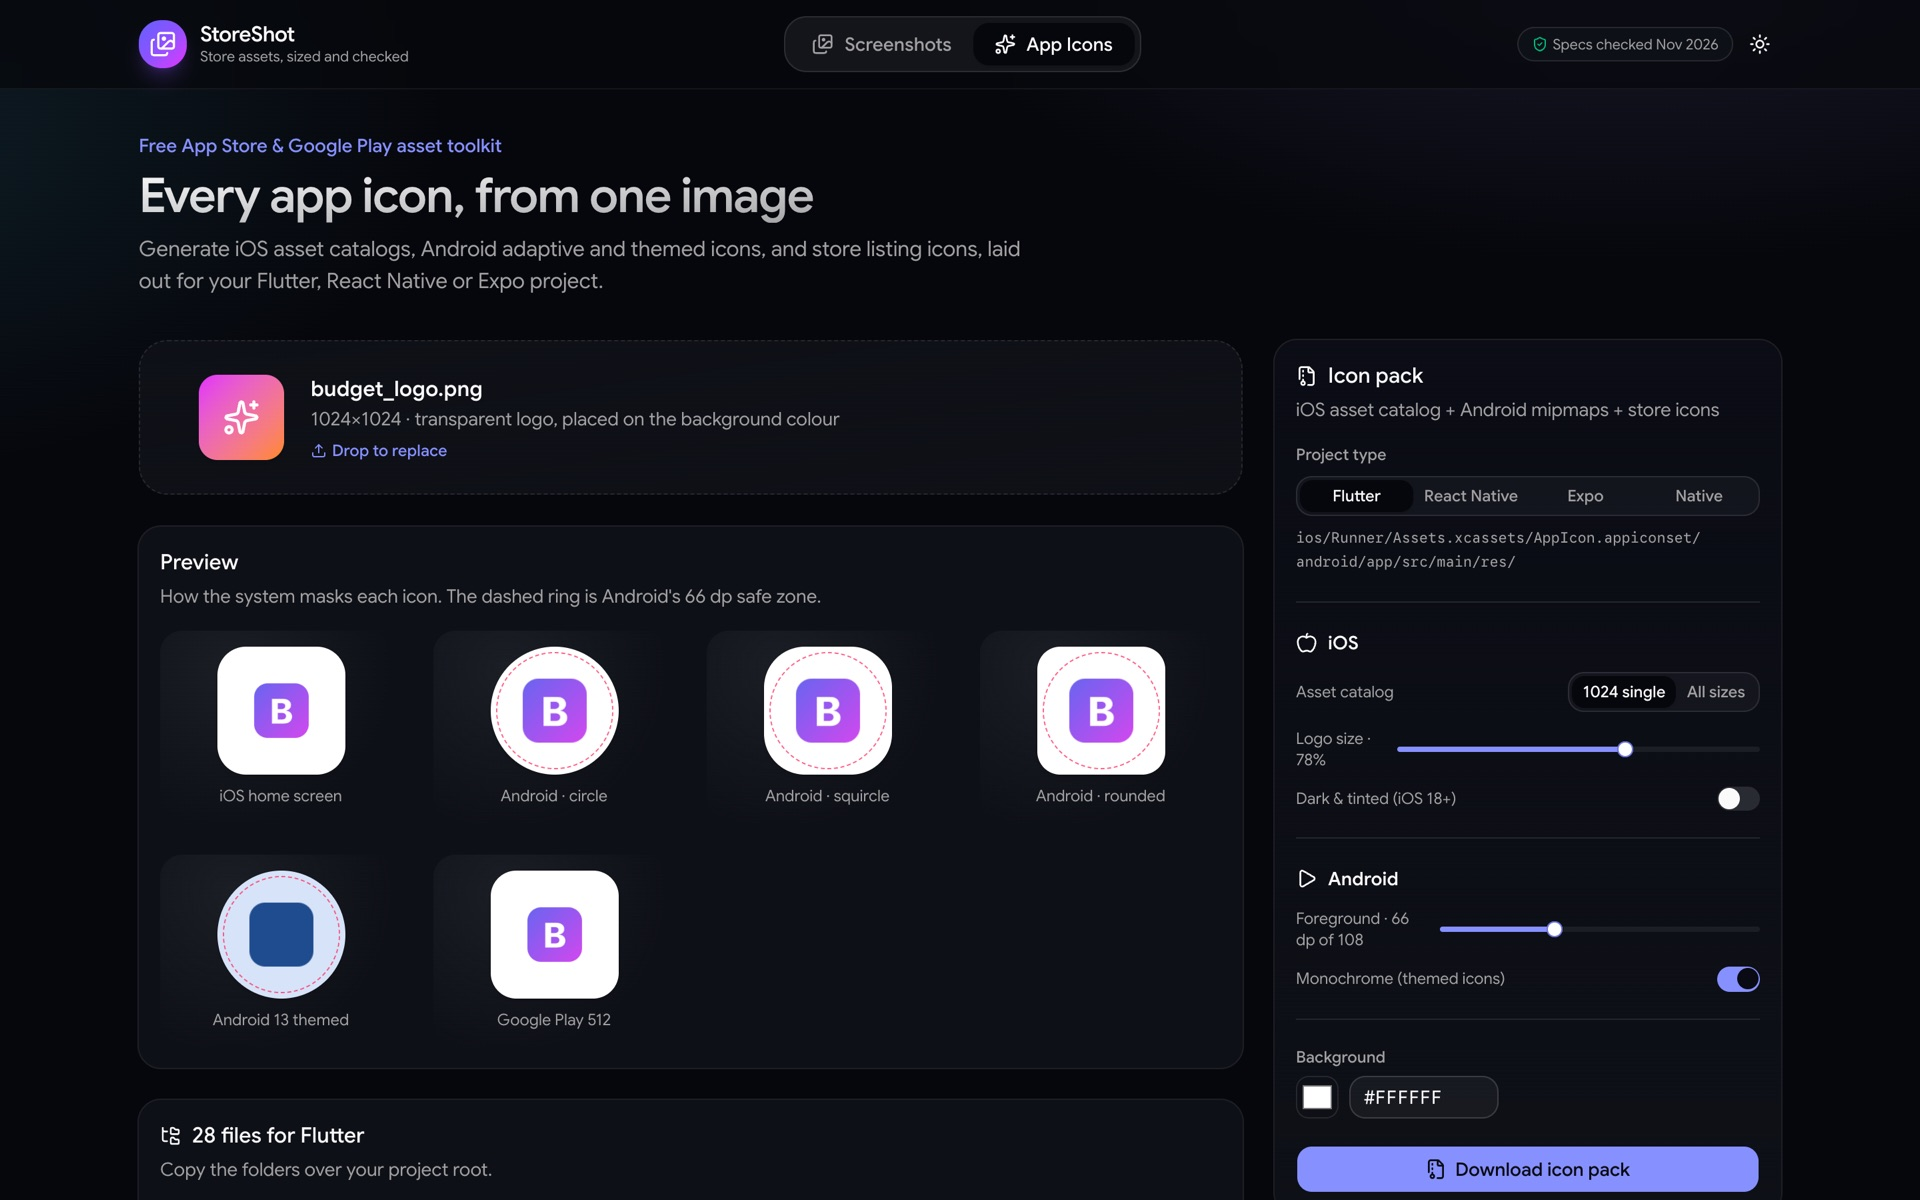
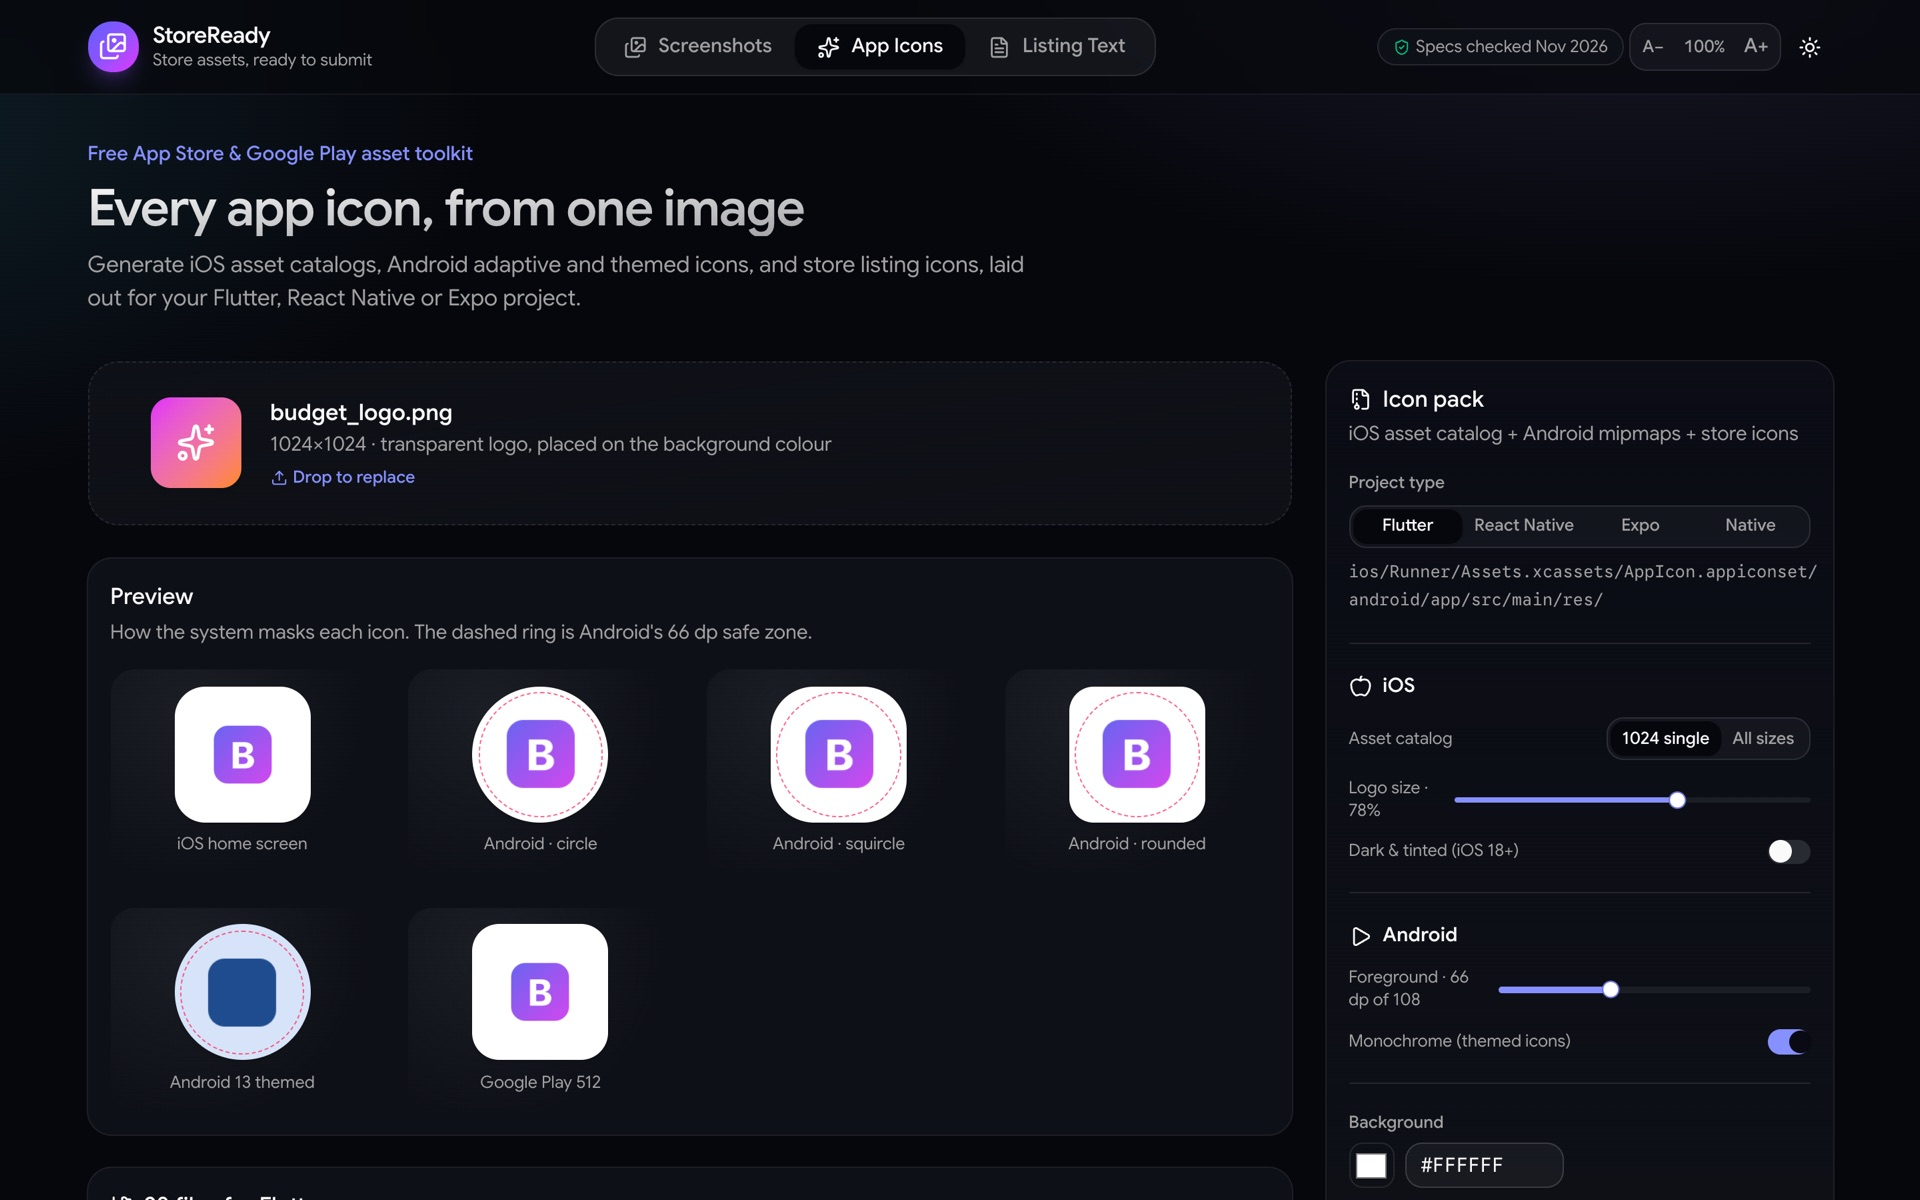
Rename to StoreReady
- Brand, page title, share image, README and generated file headers now say StoreReady
- Site URL and base path move to /storeready (repo renamed to aravi365/storeready)
- Browser storage keys are unchanged, so saved drafts and text size carry over
- README screenshots retaken

diff --git a/components/SeoGuide.tsx b/components/SeoGuide.tsx
@@ -8,15 +8,15 @@ import { PRESETS } from "@/utils/presets";
 export const FAQ: { q: string; a: string }[] = [
   {
     q: "What screenshot size does the App Store require in 2026?",
-    a: "App Store Connect requires at least one screenshot for the medium Dynamic Island iPhone display: 1206×2622 or 1179×2556 px (6.3-inch, portrait, or the landscape equivalents). Most apps also upload the large display at 1320×2868 px (6.9-inch; 1290×2796 and 1260×2736 are accepted there too). If your app runs on iPad, add 13-inch iPad screenshots at 2064×2752 or 2048×2732 px. StoreShot exports the 6.3-inch, 6.9-inch and 13-inch sets by default.",
+    a: "App Store Connect requires at least one screenshot for the medium Dynamic Island iPhone display: 1206×2622 or 1179×2556 px (6.3-inch, portrait, or the landscape equivalents). Most apps also upload the large display at 1320×2868 px (6.9-inch; 1290×2796 and 1260×2736 are accepted there too). If your app runs on iPad, add 13-inch iPad screenshots at 2064×2752 or 2048×2732 px. StoreReady exports the 6.3-inch, 6.9-inch and 13-inch sets by default.",
   },
   {
     q: "What screenshot sizes does iPhone Duo (the foldable iPhone) need?",
-    a: "iPhone Duo has two displays, and App Store Connect takes a set for each: the outer (folded) display at 1398×2034 px and the inner (unfolded) display at 2007×2853 px, in portrait or landscape. Uploading them adds an \u201coptimized for iPhone Duo\u201d badge to your product page, and they become required from April 2027 for apps built with the iOS 27.1 SDK or later. Drop images into StoreShot\u2019s iPhone Duo set to get both sizes.",
+    a: "iPhone Duo has two displays, and App Store Connect takes a set for each: the outer (folded) display at 1398×2034 px and the inner (unfolded) display at 2007×2853 px, in portrait or landscape. Uploading them adds an \u201coptimized for iPhone Duo\u201d badge to your product page, and they become required from April 2027 for apps built with the iOS 27.1 SDK or later. Drop images into StoreReady\u2019s iPhone Duo set to get both sizes.",
   },
   {
     q: "Why does App Store Connect reject my PNG screenshots?",
-    a: "The most common reasons are a wrong pixel size or an alpha channel. Apple rejects images that contain transparency or an alpha channel, even if every pixel is opaque. Browsers and many design tools save RGBA PNGs by default. StoreShot flattens every image onto a solid background and writes a true 24-bit RGB PNG.",
+    a: "The most common reasons are a wrong pixel size or an alpha channel. Apple rejects images that contain transparency or an alpha channel, even if every pixel is opaque. Browsers and many design tools save RGBA PNGs by default. StoreReady flattens every image onto a solid background and writes a true 24-bit RGB PNG.",
   },
   {
     q: "What are the Google Play screenshot requirements?",
@@ -28,7 +28,7 @@ export const FAQ: { q: string; a: string }[] = [
   },
   {
     q: "Can I mention Android or Google Play in my App Store description?",
-    a: "No. App Review Guideline 2.3.10 says not to include names, icons or imagery of other mobile platforms or alternative app marketplaces in your app or metadata. StoreShot\u2019s Listing Text tab flags these and can remove the sentences for you.",
+    a: "No. App Review Guideline 2.3.10 says not to include names, icons or imagery of other mobile platforms or alternative app marketplaces in your app or metadata. StoreReady\u2019s Listing Text tab flags these and can remove the sentences for you.",
   },
   {
     q: "Are emoji allowed in App Store and Google Play listings?",
@@ -40,7 +40,7 @@ export const FAQ: { q: string; a: string }[] = [
   },
   {
     q: "Are my images uploaded to a server?",
-    a: "No. StoreShot runs entirely in your browser using the Canvas API and Web Workers. Your screenshots and icons never leave your device.",
+    a: "No. StoreReady runs entirely in your browser using the Canvas API and Web Workers. Your screenshots and icons never leave your device.",
   },
   {
     q: "Can it generate app icons for Flutter and React Native?",
@@ -69,7 +69,7 @@ export function SeoGuide() {
           App Store &amp; Google Play screenshot sizes (2026 guide)
         </h2>
         <p className="mt-2 max-w-3xl text-muted-foreground">
-          The exact sizes StoreShot exports, checked against Apple&apos;s App Store Connect and Google&apos;s Play
+          The exact sizes StoreReady exports, checked against Apple&apos;s App Store Connect and Google&apos;s Play
           Console help pages in November 2026. Drop your images above and every size below is generated for you.
         </p>
 
@@ -93,7 +93,7 @@ export function SeoGuide() {
             <h3 className="text-lg font-semibold">How to resize screenshots for the App Store and Play Store</h3>
             <ol className="mt-3 list-decimal space-y-2 pl-5 text-sm text-muted-foreground">
               <li>Drop your phone screenshots into the Mobile set, iPad screenshots into the iPad / Tablet set and foldable screenshots into the iPhone Duo set, or drop whole folders (for example en-US/iphone and ja/ipad) into Smart folder import.</li>
-              <li>StoreShot detects each device from its resolution and the language from folder and file names (any of the 50 App Store languages, e.g. ja/, de-DE, home_fr.png).</li>
+              <li>StoreReady detects each device from its resolution and the language from folder and file names (any of the 50 App Store languages, e.g. ja/, de-DE, home_fr.png).</li>
               <li>Choose Fit, Fill (smart crop) or Stretch. Fit keeps the whole image: if the shapes differ by under 1% it fills the frame with an even hairline trim, otherwise it adds background only where needed. Transparency is flattened automatically.</li>
               <li>Check the compliance badge on each preview, then download one ZIP sorted by store, language and device.</li>
             </ol>
@@ -119,7 +119,7 @@ export function SeoGuide() {
         <p>All processing happens in your browser. Nothing is uploaded.</p>
         <p>
           Open source on{" "}
-          <a className="underline hover:text-foreground" href="https://github.com/aravi365/storeshot">
+          <a className="underline hover:text-foreground" href="https://github.com/aravi365/storeready">
             GitHub
           </a>
           . Not affiliated with Apple or Google.

diff --git a/components/AppShell.tsx b/components/AppShell.tsx
@@ -18,7 +18,7 @@ const TABS: { id: Tab; label: string; icon: React.ReactNode; title: string; intr
     icon: <Images className="size-4" />,
     title: "Upload-ready screenshots in one drop",
     intro:
-      "Drop your mobile and iPad sets. StoreShot detects each image, scales it to every App Store and Google Play size, flattens any transparency, and checks each file against the store rules.",
+      "Drop your mobile and iPad sets. StoreReady detects each image, scales it to every App Store and Google Play size, flattens any transparency, and checks each file against the store rules.",
   },
   {
     id: "icons",
@@ -33,7 +33,7 @@ const TABS: { id: Tab; label: string; icon: React.ReactNode; title: string; intr
     icon: <FileText className="size-4" />,
     title: "Listing text that passes review",
     intro:
-      "Paste your app name, descriptions and keywords. StoreShot checks them against Apple's App Review Guidelines and Google Play's metadata policy, explains each problem, and fixes what it safely can.",
+      "Paste your app name, descriptions and keywords. StoreReady checks them against Apple's App Review Guidelines and Google Play's metadata policy, explains each problem, and fixes what it safely can.",
   },
 ];
 
@@ -49,8 +49,8 @@ export function AppShell() {
               <Images className="size-5" />
             </div>
             <div className="hidden leading-tight sm:block">
-              <p className="font-semibold tracking-tight">StoreShot</p>
-              <p className="text-xs text-muted-foreground">Store assets, sized and checked</p>
+              <p className="font-semibold tracking-tight">StoreReady</p>
+              <p className="text-xs text-muted-foreground">Store assets, ready to submit</p>
             </div>
           </div>
 

diff --git a/lib/site.ts b/lib/site.ts
@@ -1,8 +1,8 @@
 /** Public site URL, used for canonical links, the sitemap and social cards. */
-export const SITE_URL = (process.env.NEXT_PUBLIC_SITE_URL ?? "https://aravi365.github.io/storeshot").replace(/\/$/, "");
+export const SITE_URL = (process.env.NEXT_PUBLIC_SITE_URL ?? "https://aravi365.github.io/storeready").replace(/\/$/, "");
 export const BASE_PATH = process.env.NEXT_PUBLIC_BASE_PATH ?? "";
-export const SITE_NAME = "StoreShot";
-export const SITE_TITLE = "App Store & Google Play Screenshot Resizer + App Icon Generator";
+export const SITE_NAME = "StoreReady";
+export const SITE_TITLE = "App Store Screenshot Resizer, Icon Generator & Listing Checker";
 export const SITE_DESCRIPTION =
   "Free, private, in-browser tool to resize App Store and Google Play screenshots to every required size (iPhone 6.9\" and 6.3\", iPhone Duo foldable, iPad 13\", Play phone, tablet, feature graphic), strip alpha, and generate iOS + Android app icons for Flutter, React Native and Expo.";
 export const KEYWORDS = [

diff --git a/utils/listingExport.ts b/utils/listingExport.ts
@@ -31,7 +31,7 @@ export async function buildFastlaneZip(drafts: Record<Locale, Listing>): Promise
   for (const f of files) zip.file(f.path, f.text);
   zip.file(
     "README.md",
-    `# Store listing text\n\nGenerated by StoreShot. Copy the \`fastlane\` folder into your project (for Flutter, into \`ios/\` and \`android/\`, or the repo root, wherever your Fastfile lives).\n\n- iOS: \`fastlane deliver\` reads \`fastlane/metadata/<locale>/\`\n- Android: \`fastlane supply\` reads \`fastlane/metadata/android/<locale>/\`\n`,
+    `# Store listing text\n\nGenerated by StoreReady. Copy the \`fastlane\` folder into your project (for Flutter, into \`ios/\` and \`android/\`, or the repo root, wherever your Fastfile lives).\n\n- iOS: \`fastlane deliver\` reads \`fastlane/metadata/<locale>/\`\n- Android: \`fastlane supply\` reads \`fastlane/metadata/android/<locale>/\`\n`,
   );
   return zip.generateAsync({ type: "blob" });
 }

diff --git a/next.config.ts b/next.config.ts
@@ -1,7 +1,7 @@
 import type { NextConfig } from "next";
 
 // GitHub Pages serves project sites from /<repo>/, so the build is told its subfolder.
-// The Pages workflow sets NEXT_PUBLIC_BASE_PATH=/storeshot; local dev leaves it empty.
+// The Pages workflow sets NEXT_PUBLIC_BASE_PATH=/storeready; local dev leaves it empty.
 const basePath = process.env.NEXT_PUBLIC_BASE_PATH ?? "";
 
 const nextConfig: NextConfig = {

diff --git a/utils/iconGenerator.ts b/utils/iconGenerator.ts
@@ -299,7 +299,7 @@ function readme(s: IconSettings): string {
   };
   return `# App icons (${s.framework})
 
-Generated by StoreShot on ${new Date().toISOString().slice(0, 10)}.
+Generated by StoreReady on ${new Date().toISOString().slice(0, 10)}.
 
 ## Install
 ${steps[s.framework]}

diff --git a/utils/zipExporter.ts b/utils/zipExporter.ts
@@ -46,7 +46,7 @@ export async function buildZip(
 
   const manifest = {
     generatedAt: new Date().toISOString(),
-    generator: "StoreShot",
+    generator: "StoreReady",
     totals: {
       files: entries.length,
       bytes: entries.reduce((n, e) => n + e.blob.size, 0),

diff --git a/README.md b/README.md
@@ -1,12 +1,12 @@
-# StoreShot · App Store & Google Play screenshot resizer + app icon generator
+# StoreReady · App Store & Google Play screenshots, app icons and listing text, ready to submit
 
-**Live:** https://aravi365.github.io/storeshot/
+**Live:** https://aravi365.github.io/storeready/
 
 Free, private, in-browser tool that resizes App Store and Google Play screenshots to every required size, strips the alpha channel, checks each file against the store rules, and packages everything into a ready-to-upload ZIP. It also generates iOS and Android app icons for Flutter, React Native and Expo projects. Nothing is uploaded: all processing happens in your browser.
 
-![StoreShot screenshot resizer: Mobile and iPad upload sets, smart folder import, detected device, live previews and the ZIP folder tree](docs/screenshots-tab.jpg)
+![StoreReady screenshot resizer: Mobile and iPad upload sets, smart folder import, detected device, live previews and the ZIP folder tree](docs/screenshots-tab.jpg)
 
-![StoreShot app icon generator: iOS and Android icon previews with the adaptive-icon safe zone and Flutter project layout](docs/app-icons-tab.jpg)
+![StoreReady app icon generator: iOS and Android icon previews with the adaptive-icon safe zone and Flutter project layout](docs/app-icons-tab.jpg)
 
 ## Features
 - **Every 2026 store size:** iPhone 6.9″ (1320×2868) and the required 6.3″ (1206×2622), iPhone Duo foldable (outer 1398×2034 and inner 2007×2853), iPad 13″ (2064×2752), Google Play phone, 7″ and 10″ tablet, and the 1024×500 feature graphic, in portrait or landscape.
